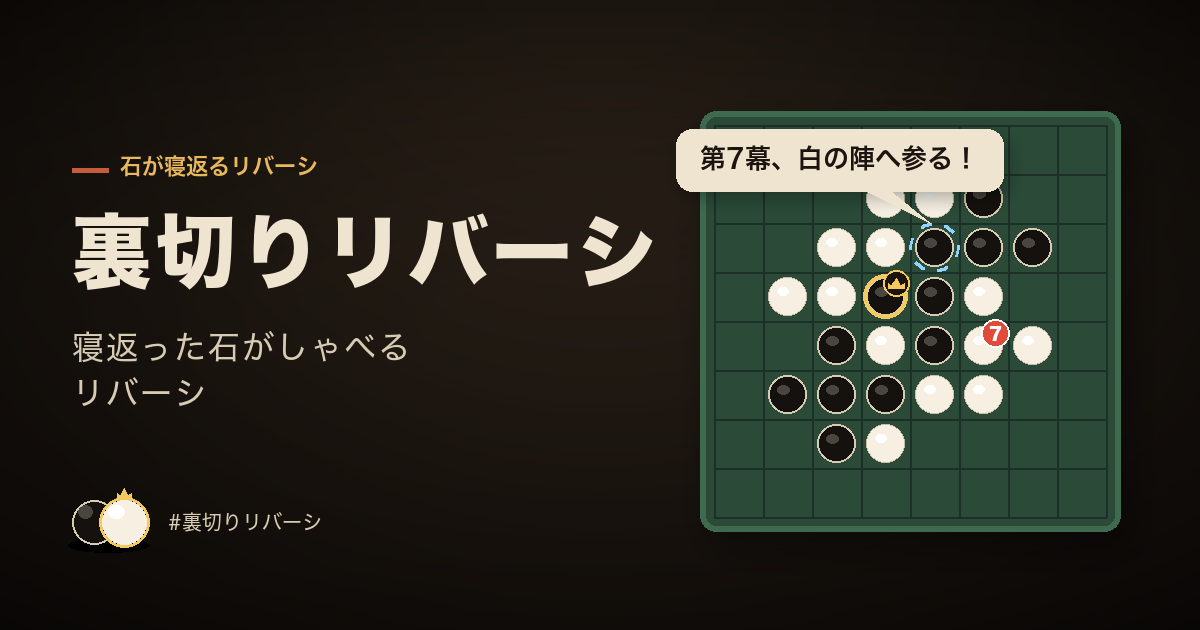
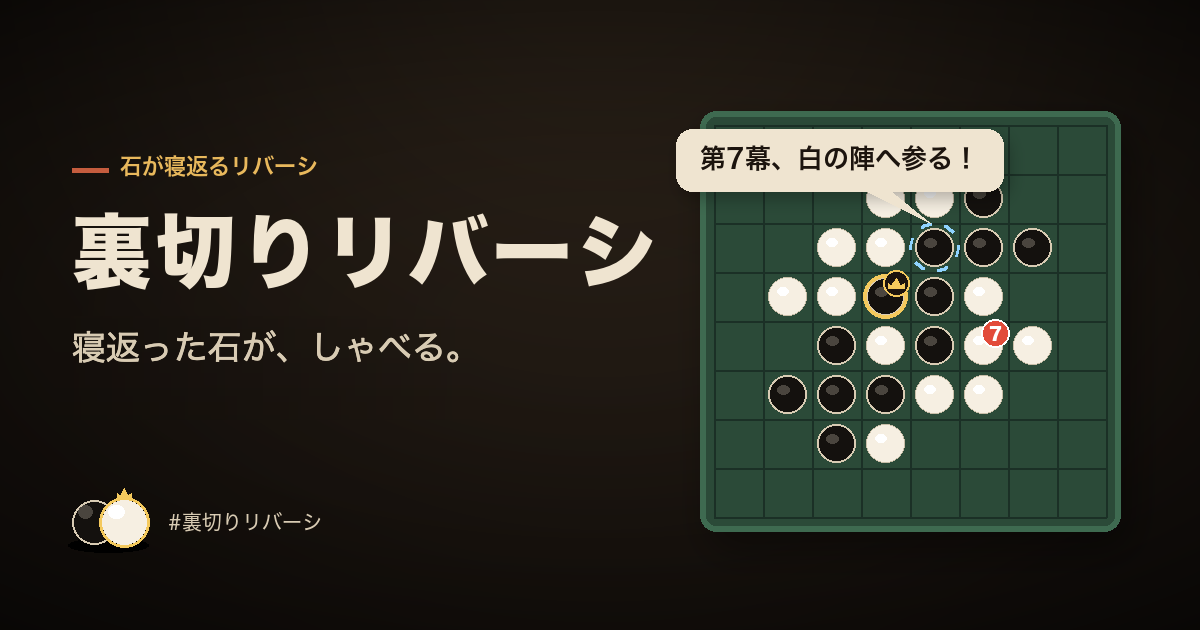
裏切りリバーシのカードを新しい OGP に差し替え、題字が切れないようにする (#9)
副題を「寝返った石が、しゃべる。」に揃え、16:10 の枠で左右が欠けないようこのカードだけ 1200×630 の比率にする。

Changed region(s): [[0.0617, 0.5127, 0.4008, 0.573], [0.0617, 0.6032, 0.185, 0.6333]]

diff --git a/lib/works.ts b/lib/works.ts
@@ -10,6 +10,8 @@ export interface Work {
   readonly githubUrl?: string;
   readonly imageSrc: string;
   readonly imageAlt: string;
+  readonly imageWidth?: number;
+  readonly imageHeight?: number;
   readonly tags: readonly string[];
 }
 
@@ -45,11 +47,13 @@ export const WORKS: readonly Work[] = [
     id: "uragiri-reversi",
     group: "play",
     name: "裏切りリバーシ",
-    summary: "寝返った石がしゃべるリバーシです。ブラウザで遊べます。",
+    summary: "寝返った石が、しゃべる。ブラウザで遊べます。",
     liveUrl: "https://uragiri-reversi.kaion-engin.workers.dev/",
     liveLabel: "遊ぶ",
     imageSrc: "/works/uragiri-reversi.png",
-    imageAlt: "裏切りリバーシの題字と、石が吹き出しでしゃべる盤面",
+    imageAlt: "裏切りリバーシの題字と『寝返った石が、しゃべる。』の副題、石が吹き出しでしゃべる盤面",
+    imageWidth: 1200,
+    imageHeight: 630,
     tags: ["ゲーム", "ブラウザ", "AI 対戦"],
   },
   {

diff --git a/app/globals.css b/app/globals.css
@@ -91,6 +91,7 @@ section { scroll-margin-top: 32px; }
 .project-name { display: block; font-weight: 700; overflow-wrap: anywhere; }
 .project-subtitle { display: block; margin-top: 4px; font-size: 15px; font-weight: 500; color: var(--color-muted); }
 .work-thumb-wrap { overflow: hidden; border-radius: 8px; margin-bottom: 16px; aspect-ratio: 16 / 10; background: #0a1420; }
+.work-thumb-wrap.is-og { aspect-ratio: 1200 / 630; background: #16110d; }
 .work-thumb { display: block; width: 100%; height: 100%; object-fit: cover; object-position: top center; transition: transform .4s ease; }
 .work-summary { margin-top: 10px; color: var(--color-muted); }
 .project-card p, .project-card li, .project-card .decision-text { font-size: 15px; line-height: 1.9; }

diff --git a/components/WorkCard.tsx b/components/WorkCard.tsx
@@ -15,12 +15,12 @@ export default function WorkCard({ work, featured = false }: WorkCardProps) {
   return (
     <article>
       <Card className={`project-card${featured ? " project-card-featured" : ""}`} height="100%">
-        <div className="work-thumb-wrap">
+        <div className={`work-thumb-wrap${work.imageHeight === 630 ? " is-og" : ""}`}>
           <Image
             src={work.imageSrc}
             alt={work.imageAlt}
-            width={1200}
-            height={750}
+            width={work.imageWidth ?? 1200}
+            height={work.imageHeight ?? 750}
             className="work-thumb"
           />
         </div>
